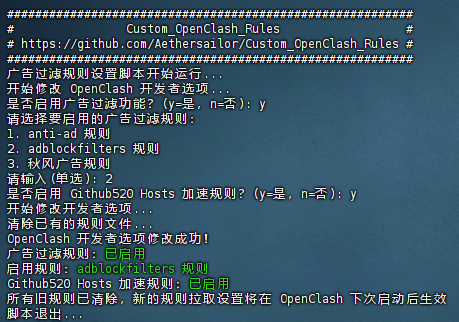
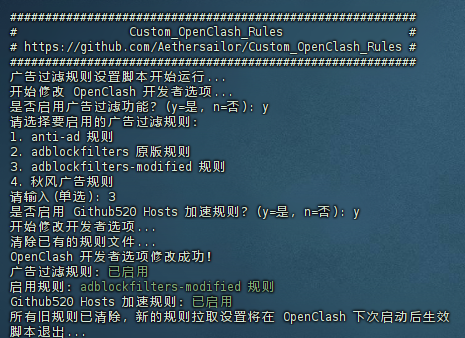
同步源仓库更新， 2025-02-11 04:26:47

diff --git a/Custom/shell/README.md b/Custom/shell/README.md
@@ -1,11 +1,12 @@
-自用脚本文件。  
-擅自使用，后果自负。  
+# 一键脚本  
+一些方便的一键脚本，欢迎使用。   
+所有 OPKG 包管理器相关的脚本均未测试。  
 
 ***
 
-## install_openclash_dev.sh  
+## **一键更新 OpenClash 和 Meta 内核为最新 dev 版本（APK）**  
 
-**一键更新 OpenClash 和 Meta 内核为最新 dev 版本**  
+**install_openclash_dev.sh** 
 
 仅限 APK 软件包管理器使用。  
 
@@ -14,15 +15,15 @@
 适合 dev 版本爱好者。  
 
 ```bash
-curl -s https://gh-proxy.com/https://raw.githubusercontent.com/Aethersailor/Custom_OpenClash_Rules/refs/heads/main/shell/install_openclash_dev.sh | sh
+curl -sSL https://gh-proxy.com/https://raw.githubusercontent.com/Aethersailor/Custom_OpenClash_Rules/refs/heads/main/shell/install_openclash_dev.sh | sh
 ```
 
 ***
 
 
-## install_openclash_dev_opkg.sh 
+## **一键更新 OpenClash 和 Meta 内核为最新 dev 版本（OPKG）**  
 
-**一键更新 OpenClash 和 Meta 内核为最新 dev 版本**  
+**install_openclash_dev_opkg.sh** 
 
 仅限 OPKG 软件包管理器使用。  
 
@@ -31,54 +32,68 @@ curl -s https://gh-proxy.com/https://raw.githubusercontent.com/Aethersailor/Cust
 适合 dev 版本爱好者，没测试。  
 
 ```bash
-curl -s https://gh-proxy.com/https://raw.githubusercontent.com/Aethersailor/Custom_OpenClash_Rules/refs/heads/main/shell/install_openclash_dev_opkg.sh | sh
+curl -sSL https://gh-proxy.com/https://raw.githubusercontent.com/Aethersailor/Custom_OpenClash_Rules/refs/heads/main/shell/install_openclash_dev_opkg.sh | sh
 ```
 
 ***
   
+## **一键更新 OpenClash 和 Meta 内核、GEO 数据库、大陆白名单、订阅信息（AKPG）** 
 
-## install_openclash_dev_update_geo.sh  
+**install_openclash_dev_update_geo.sh**  
 
 仅限 APK 软件包管理器使用。 
 
 大多数固件的软件源默认自带的 OpenClash 是 master 版本， 在值守式更新后，会将 OpenClash 和内核还原为 master 版本，这个脚本可以一键将 OpenClash 和 Meta 内核更新为最新 dev 版本，并更新 GeoIP 和 GeoSite 数据库、大陆白名单、订阅链接，免去在 luci 上操作的麻烦。  
 
-
 适合 dev 版本爱好者。 
 
 ```bash
-curl -s https://gh-proxy.com/https://raw.githubusercontent.com/Aethersailor/Custom_OpenClash_Rules/refs/heads/main/shell/install_openclash_dev_update_geo.sh | sh
+curl -sSL https://gh-proxy.com/https://raw.githubusercontent.com/Aethersailor/Custom_OpenClash_Rules/refs/heads/main/shell/install_openclash_dev_update_geo.sh | sh
 ```
 
 ***
 
+## **一键写入“开发者选项”中的去广告命令（anti-AD 广告过滤规则 + Github520 加速规则）**  
 
-## edit_custom_firewall_rules_anti-adn+github520.sh  
-
-一键写入“开发者选项”中的去广告命令（anti-AD 广告过滤规则 + Github520 加速规则）  
+**edit_custom_firewall_rules_anti-adn+github520.sh**  
 
 ```bash
-curl -s https://gh-proxy.com/https://raw.githubusercontent.com/Aethersailor/Custom_OpenClash_Rules/refs/heads/main/shell/edit_custom_firewall_rules_anti-adn+github520.sh | sh
+curl -sSL https://gh-proxy.com/https://raw.githubusercontent.com/Aethersailor/Custom_OpenClash_Rules/refs/heads/main/shell/edit_custom_firewall_rules_anti-adn+github520.sh | sh
 ```
 
 ***
 
 
-## edit_custom_firewall_rules_adblockfilters+github520.sh  
+## **一键写入“开发者选项”中的去广告命令（adblockfilters 广告过滤规则 + Github520 加速规则）**
 
-一键写入“开发者选项”中的去广告命令（adblockfilters 广告过滤规则 + Github520 加速规则）  
+**edit_custom_firewall_rules_adblockfilters+github520.sh**  
+  
+```bash
+curl -sSL https://gh-proxy.com/https://raw.githubusercontent.com/Aethersailor/Custom_OpenClash_Rules/refs/heads/main/shell/edit_custom_firewall_rules_adblockfilters+github520.sh | sh
+```
+
+
+***
+
+
+## **一键写入“开发者选项”中的去广告命令（adblockfilters-modified 广告过滤规则 + Github520 加速规则）**
+
+**edit_custom_firewall_rules_adblockfilters-modified+github520.sh**  
 
 ```bash
-curl -s https://gh-proxy.com/https://raw.githubusercontent.com/Aethersailor/Custom_OpenClash_Rules/refs/heads/main/shell/edit_custom_firewall_rules_adblockfilters+github520.sh | sh
+curl -sSL https://gh-proxy.com/https://raw.githubusercontent.com/Aethersailor/Custom_OpenClash_Rules/refs/heads/main/shell/edit_custom_firewall_rules_adblockfilters-modified+github520.sh | sh
 ```
+
 
 ***
 
 
-## edit_custom_firewall_rules_github520.sh  
+## **一键写入“开发者选项”中的 Github520 Hosts 拉取指令** 
+
+**edit_custom_firewall_rules_github520.sh**  
 
 一键写入“开发者选项”中的 Github520 Hosts 拉取指令  
 
 ```bash
-curl -s https://gh-proxy.com/https://raw.githubusercontent.com/Aethersailor/Custom_OpenClash_Rules/refs/heads/main/shell/edit_custom_firewall_rules_github520.sh | sh
+curl -sSL https://gh-proxy.com/https://raw.githubusercontent.com/Aethersailor/Custom_OpenClash_Rules/refs/heads/main/shell/edit_custom_firewall_rules_github520.sh | sh
 ```

diff --git a/Custom/script/README.md b/Custom/script/README.md
@@ -1,0 +1,1 @@
+这里存放一些其他文件。不知用途的情况下请勿擅自使用。  
